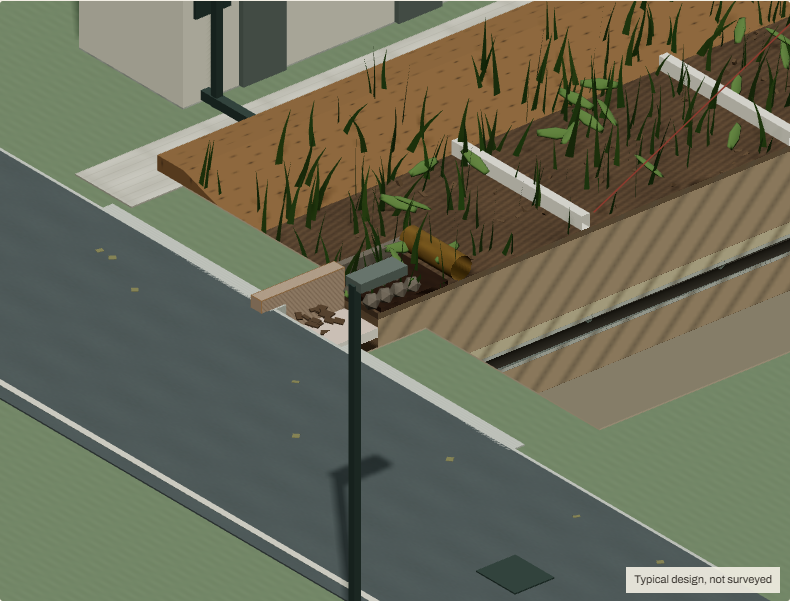
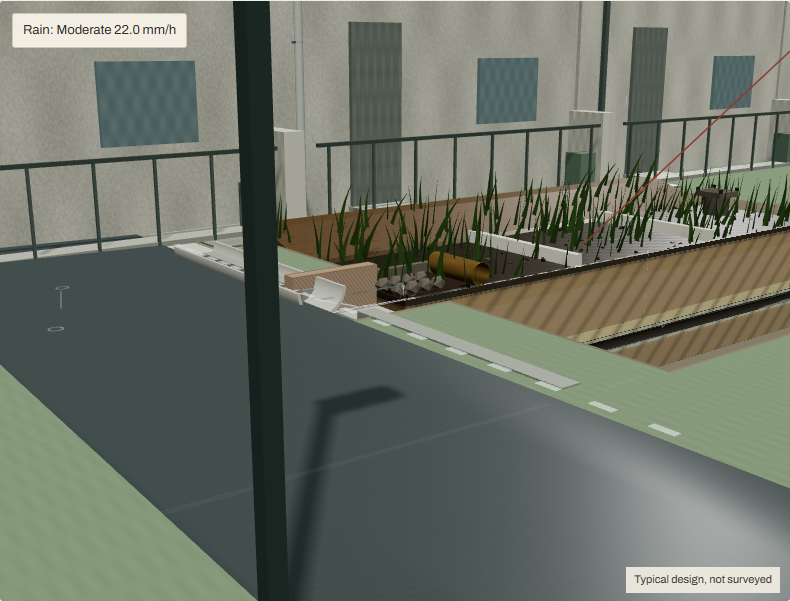
Tie drainage material responses to wetness and surface flow

diff --git a/app/src/three/physicsGeometry.ts b/app/src/three/physicsGeometry.ts
@@ -183,6 +183,7 @@ export function createSwaleGeometry(c: PhysicsConfig): ModelGroups {
   layer('transition', t, -m - t / 2 - 0.05, 0xe8dec6, 'sand');
   layer('drainage', g, bottom + g / 2, 0xc5beaa, 'gravel');
   layer('mulch', 0.05, -0.025, 0xbba07c, 'mulch');
+  const textile=k.box('transition',[l,.003,w],[0,-m-t-.05+.002,0],0x8f927f);textile.name='geotextile';Object.assign(textile.material,surfaceMaps('fabric'));
   if (d.nativeDepth > 0)
     layer('media', d.nativeDepth, bottom - d.nativeDepth / 2, 0x9d8465, 'soil');
   // Banks define the 1:z section around the actual bottom width.
@@ -284,14 +285,22 @@ export function createSwaleGeometry(c: PhysicsConfig): ModelGroups {
   const material = k.mat(0x667d42),
     wind = { value: 0 };
   material.userData.wind = wind;
+  const flowField={value:null},flowBounds={value:new THREE.Vector4(0,0,1,1)},flowReady={value:0};material.userData.flowField=flowField;material.userData.flowBounds=flowBounds;material.userData.flowReady=flowReady;
   material.onBeforeCompile = (shader) => {
-    shader.uniforms.windTime = wind;
+    shader.uniforms.windTime = wind;shader.uniforms.plantFlowField=flowField;shader.uniforms.plantFlowBounds=flowBounds;shader.uniforms.plantFlowReady=flowReady;
     shader.vertexShader =
-      'uniform float windTime;\n' +
+      'uniform float windTime,plantFlowReady; uniform sampler2D plantFlowField; uniform vec4 plantFlowBounds; varying float plantWet;\n' +
       shader.vertexShader.replace(
         '#include <begin_vertex>',
-        '#include <begin_vertex>\ntransformed.x += sin(windTime * 1.1 + instanceMatrix[3].x * 2.0 + instanceMatrix[3].z) * position.y * position.y * 0.3;',
+        `#include <begin_vertex>
+        transformed.x += sin(windTime*1.1+instanceMatrix[3].x*2.+instanceMatrix[3].z)*position.y*position.y*.3;
+        vec2 flowUv=(instanceMatrix[3].xz-plantFlowBounds.xy)/plantFlowBounds.zw;
+        vec4 water=texture2D(plantFlowField,clamp(flowUv,0.,1.))*plantFlowReady;
+        vec2 velocity=water.yz/max(water.x,.001);
+        transformed.xz+=clamp(velocity,vec2(-1.),vec2(1.))*position.y*position.y*.4;
+        plantWet=water.x>.001?1.-smoothstep(water.x,water.x+.08,position.y):0.;`,
       );
+    shader.fragmentShader='varying float plantWet;\n'+shader.fragmentShader.replace('#include <color_fragment>','#include <color_fragment>\ndiffuseColor.rgb*=1.-plantWet*.3;');
   };
   const blades = new THREE.InstancedMesh(blade, material, 580),
     obj = new THREE.Object3D();
@@ -320,19 +329,6 @@ export function createSwaleGeometry(c: PhysicsConfig): ModelGroups {
   }
   blades.name = 'tropical-groundcover';
   k.groups.planting!.add(blades);
-  const leaves = new THREE.InstancedMesh(new THREE.SphereGeometry(0.12, 6, 4), k.mat(0x607a40), 48);
-  for (let i = 0; i < leaves.count; i++) {
-    obj.position.set(
-      (variation(i + 501) - 0.5) * l,
-      0.08 + variation(i + 600) * 0.09,
-      (variation(i + 700) - 0.5) * w,
-    );
-    obj.scale.set(0.4, 0.15, 1.4);
-    obj.rotation.set(0.3, variation(i + 800) * 6, 0.5);
-    obj.updateMatrix();
-    leaves.setMatrixAt(i, obj.matrix);
-  }
-  k.groups.planting!.add(leaves);
   for (const [id, count, kind] of [
     ['mulch', 120, 'mulch'],
     ['drainage', 90, 'gravel'],
@@ -356,6 +352,7 @@ export function createSwaleGeometry(c: PhysicsConfig): ModelGroups {
       obj.updateMatrix();
       bits.setMatrixAt(i, obj.matrix);
     }
+    bits.name=id+'-particles';
     k.groups[id]!.add(bits);
   }
   return finish(k.groups);

diff --git a/app/src/three/materialInteractions.test.ts b/app/src/three/materialInteractions.test.ts
@@ -1,0 +1,35 @@
+import {test,expect} from 'vitest';
+import {wetFinish,mulchLift,damDischarge,sockDarkening} from './materialInteractions';
+import {wetAlbedo} from './soilMaterial';
+import {featureConfig} from '../simulation/physics/config';
+import {buildSurfaceGrid} from './surfaceScene';
+import {advanceSurface} from './surfaceWater';
+test('paving and asphalt get darker and smoother when wet',()=>{
+  expect(wetFinish(1).roughness).toBeLessThan(wetFinish(0).roughness);
+  expect(wetFinish(1).albedo).toBeLessThan(wetFinish(0).albedo);
+  expect(wetFinish(3)).toEqual(wetFinish(1));
+});
+test('retained mulch wetness produces a film finish; only selected chips float at high depth',()=>{
+  expect(wetFinish(.7).roughness).toBeLessThan(wetFinish(0).roughness);
+  expect(mulchLift(.04,.99)).toBe(0);expect(mulchLift(.2,.5)).toBe(0);expect(mulchLift(.2,.99)).toBeCloseTo(.209);
+});
+test('media, sand, gravel and geotextile darken with their sampled saturation',()=>{
+  for(const dry of [.4,.6,.8])expect(wetAlbedo(dry,.9)).toBeLessThan(wetAlbedo(dry,.2));
+});
+test('sock shading follows clog and wetness; dam spill needs positive head above crest and tailwater',()=>{
+  expect(sockDarkening(.8,.8)).toBeLessThan(sockDarkening(0,.1));
+  expect(damDischarge(.1,0,.12,3)).toBe(0);expect(damDischarge(.2,.25,.12,3)).toBe(0);
+  expect(damDischarge(.2,.08,.12,3)).toBeGreaterThan(0);
+});
+test('only installed obstacles enter the terrain; a restricted sock raises upstream storage',()=>{
+  const c=featureConfig('S1');c.values.sockOpen.value=.1;
+  const g=buildSurfaceGrid(c,64,32);let state=new Float32Array(g.nx*g.nz*4),source=new Float32Array(state.length);
+  const pick=(x:number)=>((Math.floor((0-g.z0)/g.dz)*g.nx)+Math.floor((x-g.x0)/g.dx))*4;
+  const sock=-c.values.length.value/2+.8;
+  for(let i=0;i<state.length;i+=4){if(g.terrain[i+2]===1)state[i]=Math.max(0,.05-g.terrain[i]);if(g.terrain[i+3]===1)source[i]=.003;}
+  for(let i=0;i<300;i++)state=advanceSurface(g,state,.02,source).state;
+  const up=pick(sock-.3),down=pick(sock+.3);
+  expect(state[up]+g.terrain[up]).toBeGreaterThan(state[down]+g.terrain[down]);
+  const s2=buildSurfaceGrid(featureConfig('S2'),64,32);
+  expect(Array.from(s2.terrain).filter((_,i)=>i%4===1).some(n=>n>.14)).toBe(false);
+});

diff --git a/app/src/three/SurfaceWaterScene.tsx b/app/src/three/SurfaceWaterScene.tsx
@@ -74,7 +74,7 @@ export default function SurfaceWater({physics,plane,low=false,record=false}:{phy
       const ix=Math.max(0,Math.min(nx-1,Math.floor((x-grid.x0)/grid.dx))),iz=Math.max(0,Math.min(nz-1,Math.floor((z-grid.z0)/grid.dz))),i=(iz*nx+ix)*4,h=r.state[i];
       return {depth:h,height:grid.terrain[i]+h,vx:h>1e-7?r.state[i+1]/h:0,vz:h>1e-7?r.state[i+2]/h:0};
     };
-    return ()=>{r.gpu?.dispose();r.worker?.terminate();runtime.current=undefined;delete scene.userData.surfaceSample;delete scene.userData.surfaceStats;};
+    return ()=>{r.gpu?.dispose();r.worker?.terminate();runtime.current=undefined;delete scene.userData.surfaceSample;delete scene.userData.surfaceStats;delete scene.userData.surfaceRender;delete scene.userData.surfaceRender;};
   },[grid,resources,gl,gpuCapable,scene,invalidate]);
   resources.uniforms.sectionEnabled.value=plane?1:0;
   if(plane)resources.uniforms.sectionPlane.value.set(plane.normal.x,plane.normal.y,plane.normal.z,plane.constant);
@@ -99,6 +99,8 @@ export default function SurfaceWater({physics,plane,low=false,record=false}:{phy
     }else if(r.worker&&!r.busy&&(changed||r.workerElapsed>=.05)){
       r.busy=true;r.worker.postMessage({kind:'step',seconds:r.workerElapsed,reset,source:surfaceSources(grid,r.state,physics.config,f),impulses:impulses.splice(0),...targets});r.workerElapsed=0;
     }
+    scene.userData.surfaceRender={texture:resources.uniforms.surfaceMap.value,x0:grid.x0,z0:grid.z0,width:grid.nx*grid.dx,height:grid.nz*grid.dz};
+    scene.userData.surfaceRender={texture:resources.uniforms.surfaceMap.value,x0:grid.x0,z0:grid.z0,width:grid.nx*grid.dx,height:grid.nz*grid.dz};
     r.lastSecond=f.second;
     if(targets.bedVolume>0||targets.gutterVolume>0||f.rain>0)invalidate();
   });

diff --git a/app/src/three/ObstacleWater.tsx b/app/src/three/ObstacleWater.tsx
@@ -1,0 +1,21 @@
+import {useRef,useState} from 'react';
+import {useFrame,useThree} from '@react-three/fiber';
+import type {Plane} from 'three';
+import type {ModelPhysics} from './PhysicsOverlay';
+import {drainDesign} from '../simulation/physics/design';
+import {damDischarge} from './materialInteractions';
+import BallisticFlow from './BallisticFlow';
+export default function ObstacleWater({physics,plane,low}:{physics:ModelPhysics;plane?:Plane;low:boolean}){
+  const {scene}=useThree(),time=useRef(0),d=drainDesign(physics.config);
+  const [spills,setSpills]=useState<{x:number;up:number;down:number;q:number}[]>([]);
+  useFrame((_,delta)=>{
+    time.current+=delta;if(time.current<.1||document.hidden)return;time.current=0;
+    const sample=scene.userData.surfaceSample as ((x:number,z:number)=>{height:number;depth:number;vx:number})|undefined;if(!sample)return;
+    const next=[-d.length/6,d.length/6].map(x=>{
+      const a=sample(x-.16,0),b=sample(x+.16,0),q=damDischarge(a.height,b.height,.12,d.bedWidth);
+      return {x,up:a.height,down:b.height,q};
+    });
+    scene.userData.damSpills=next;setSpills(next);
+  });
+  return <group name="check-dam-water">{spills.filter(s=>s.q>1e-9&&s.up>Math.max(.12,s.down)).map((s,i)=><BallisticFlow key={i} name="dam-weir-spill" start={[s.x+.04,s.up,0]} landing={Math.max(.12,s.down)} velocity={Math.sqrt(2*9.81*(s.up-Math.max(.12,s.down)))} q={s.q} plane={plane} low={low}/>)}</group>;
+}

diff --git a/app/src/three/soilMaterial.ts b/app/src/three/soilMaterial.ts
@@ -49,13 +49,14 @@ export function wetMaterial(
   material.userData.amendmentUniform = amendmentUniform;
   material.onBeforeCompile = (shader) => {
     shader.uniforms.soilWater = uniform;
+    shader.uniforms.mulchPond=material.userData.mulchPond??{value:0};
     shader.uniforms.wetBandHeight = bandUniform;
     shader.uniforms.soilAmendmentDepth = amendmentUniform;
     shader.vertexShader =
-      'varying vec3 soilPosition;\n' +
-      shader.vertexShader.replace(
+      'varying vec3 soilPosition; uniform float mulchPond;\n' +
+      shader.vertexShader.replace('#include <begin_vertex>', '#include <begin_vertex>\n#ifdef USE_INSTANCING\nfloat floatingChip=step(.85,fract(sin(dot(instanceMatrix[3].xz,vec2(127.1,311.7)))*43758.5453));transformed.y+=floatingChip*mulchPond;\n#endif').replace(
         '#include <worldpos_vertex>',
-        '#include <worldpos_vertex>\nsoilPosition = (modelMatrix * vec4(transformed, 1.0)).xyz;',
+        '#include <worldpos_vertex>\nvec4 wetPosition=vec4(transformed,1.);\n#ifdef USE_INSTANCING\nwetPosition=instanceMatrix*wetPosition;\n#endif\nsoilPosition=(modelMatrix*wetPosition).xyz;',
       );
     const height = texture.image.height;
     shader.fragmentShader =

diff --git a/app/src/three/StreetPavement.tsx b/app/src/three/StreetPavement.tsx
@@ -1,3 +1,4 @@
+import {wetFinish} from './materialInteractions';
 import {useMemo,useEffect} from 'react';
 import {BufferGeometry,Float32BufferAttribute,Color} from 'three';
 import type {DrainDesign} from '../simulation/physics/design';
@@ -20,5 +21,5 @@ export default function StreetPavement({design:d,wet}:{design:DrainDesign;wet:nu
   },[d.length,d.catchment.roadWidth,d.catchment.gutterSlope,d.catchment.kerbHeight]);
   const maps=useMemo(()=>surfaceMaps('asphalt'),[]);
   useEffect(()=>()=>geometry.dispose(),[geometry]);useEffect(()=>()=>{maps.map.dispose();maps.normalMap.dispose();},[maps]);
-  return <mesh name="road" geometry={geometry} receiveShadow><meshStandardMaterial {...maps} color={new Color('white').multiplyScalar(1-wet*.38)} roughness={.95-wet*.55}/></mesh>;
+  return <mesh name="road" geometry={geometry} receiveShadow><meshStandardMaterial {...maps} color={new Color('white').multiplyScalar(wetFinish(wet).albedo)} roughness={wetFinish(wet).roughness}/></mesh>;
 }

diff --git a/app/src/components/ModelDetails.tsx b/app/src/components/ModelDetails.tsx
@@ -135,7 +135,7 @@ export default function ModelDetails({ ownerId }: { ownerId: string }) {
             The storm model uses your entered settings to calculate storage and flow. A compost dose
             does not set soil conductivity.
           </p>
-          <p>Water motion is drawn from the model's calculated flows. It is not a fluid simulation of the real site.</p>
+          <p>Water motion is drawn from the model's calculated flows. It is not a fluid simulation of the real site. The soil calculation is a cross-bed slice; that field is repeated along the asset length.</p>
           {error && <p role="alert">{error}</p>}
           {Object.entries(groups).map(([group, keys]) => (
             <details key={group} className="model-group">

diff --git a/app/src/three/PhysicsOverlay.tsx b/app/src/three/PhysicsOverlay.tsx
@@ -18,6 +18,7 @@ import { WaterMaterial, Seepage } from './WaterEffects';
 import SectionCaps from './SectionCaps';
 import { flowSpeed } from './visibility';
 import FlowTrace from './FlowTrace';
+import ObstacleWater from './ObstacleWater';
 import BallisticFlow from './BallisticFlow';
 import {outfallJet,outfallPose} from './flowPhysics';
 import { flowVisual } from './sceneMetrics';
@@ -140,6 +141,7 @@ export function PhysicsWater({
         {h > 0 && plane && geometry && <FluidCap geometry={geometry} plane={plane} order={10000} />}
       </group>
     );
+  if(id==='checkdam')return <ObstacleWater physics={physics} plane={plane} low={low}/>;
   if (id === 'media')
     return (
       <FlowTrace

diff --git a/app/src/three/CatchmentContext.tsx b/app/src/three/CatchmentContext.tsx
@@ -1,3 +1,4 @@
+import {wetFinish} from './materialInteractions';
 import { useEffect, useLayoutEffect, useMemo, useRef } from 'react';
 import {
   BoxGeometry,
@@ -48,8 +49,8 @@ function SurfaceBox({
       <boxGeometry args={size} />
       <meshStandardMaterial
         {...maps}
-        color={new Color('white').multiplyScalar(1 - wet * 0.38)}
-        roughness={0.95 - wet * 0.55}
+        color={new Color('white').multiplyScalar(wetFinish(wet).albedo)}
+        roughness={wetFinish(wet).roughness}
       />
     </mesh>
   );
